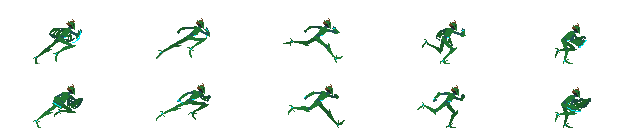
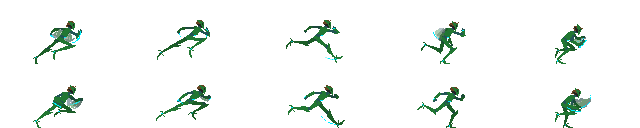
point in polygon working!

diff --git a/Breakneck/main.cpp b/Breakneck/main.cpp
@@ -227,14 +227,14 @@ struct Actor
 		activeEdges = new Edge*[16]; //this can probably be really small I don't think it matters. 
 		numActiveEdges = 0;
 
-
+		//assert( Shader::isAvailable() && "help me" );
 		/*const std::string fragmentShader = \
 			"void main()" \
 			"{" \
 			"    ..." \
 			"}";
 
-		//assert( Shader::isAvailable() && "help me" );
+		assert( Shader::isAvailable() && "help me" );
 		if (!sh.loadFromFile("player_shader.frag", sf::Shader::Fragment))
 		//if (!sh.loadFromMemory(fragmentShader, sf::Shader::Fragment))
 		{
@@ -266,8 +266,8 @@ struct Actor
 		actionLength[SLIDE] = 1;
 		tilesetSlide = GetTileset( "slide.png", 64, 64 );		
 
-		action = RUN;
-		frame = 0;
+		action = JUMP;
+		frame = 1;
 
 		gravity = 2;
 		maxFallSpeed = 100;
@@ -779,14 +779,14 @@ struct Actor
 						break;
 					}
 
-					cout << "a" << endl;
+					//cout << "a" << endl;
 					Edge *next = ground->edge1;
 					if( next->Normal().y < 0 )
 					{
 						ground = next;
 						q = 0;
 
-						cout << "aa" << endl;
+						//cout << "aa" << endl;
 						//assert( false );
 					}
 					else
@@ -1695,8 +1695,8 @@ struct Actor
 				{
 					angle = asin( dot( ground->Normal(), V2d( 1, 0 ) ) ); 
 				}
-			//	sprite->setOrigin( 0, 2 * b.rh );
-				sprite->setOrigin( sprite->getLocalBounds().width / 2, sprite->getLocalBounds().height);
+				sprite->setOrigin( b.rw, 2 * b.rh );
+				//sprite->setOrigin( sprite->getLocalBounds().width / 2, sprite->getLocalBounds().height);
 				V2d pp = ground->GetPoint( edgeQuantity );
 				sprite->setPosition( pp.x, pp.y );
 				sprite->setRotation( angle / PI * 180 );
@@ -2051,7 +2051,7 @@ void collideShapes( Actor &a, const CollisionBox &b, Actor &a1, const CollisionB
 
 int main()
 {
-	bool aaa = false;
+	bool aaa = true;
 
 	if( aaa )
 	{
@@ -2062,7 +2062,7 @@ int main()
 	else
 	{
 		window = new sf::RenderWindow(/*sf::VideoMode(1400, 900)sf::VideoMode::getDesktopMode()*/
-		sf::VideoMode( 1920 / 1, 1080 / 1), "Breakneck", sf::Style::Default, sf::ContextSettings( 0, 0, 0, 0, 0 ));
+			sf::VideoMode( 1920 / 1, 1080 / 1), "Breakneck", sf::Style::Fullscreen, sf::ContextSettings( 0, 0, 0, 0, 0 ));
 	}
 	
 	sf::Vector2i pos( 0, 0 );
@@ -2434,7 +2434,7 @@ int main()
 		bDraw.setOrigin( bDraw.getLocalBounds().width /2, bDraw.getLocalBounds().height / 2 );
 		bDraw.setPosition( player.position.x, player.position.y );
 	//	bDraw.setRotation( player.sprite->getRotation() );
-	//	window->draw( bDraw );
+		window->draw( bDraw );
 
 		window->draw( *(player.sprite) );//, &player.sh );
 		sf::RectangleShape rs;

diff --git a/Breakneck/EditSession.cpp b/Breakneck/EditSession.cpp
@@ -3,7 +3,6 @@
 #include <fstream>
 #include <assert.h>
 #include <iostream>
-#include "VectorMath.h"
 #include "poly2tri/poly2tri.h"
 
 using namespace std;
@@ -37,6 +36,7 @@ void Polygon::Finalize()
 	cdt->Triangulate();
 	vector<p2t::Triangle*> tris;
 	tris = cdt->GetTriangles();
+	
 
 	va = new VertexArray( sf::Triangles , tris.size() * 3 );
 	VertexArray & v = *va;
@@ -73,6 +73,8 @@ void Polygon::Finalize()
 			++it;
 		}
 	}
+
+	
 	
 
 	//p2t::Sweep
@@ -111,6 +113,27 @@ void Polygon::Draw( RenderTarget *rt )
 {
 //	rt->draw(lines, points.size()*2, sf::Lines );
 	rt->draw( *va );
+}
+
+bool Polygon::ContainsPoint( Vector2f test )
+{
+	int pointCount = points.size();
+
+	int i, j, c = 0;
+
+	list<Vector2i>::iterator it = points.begin();
+	list<Vector2i>::iterator jt = points.end();
+	jt--;
+	
+	for (; it != points.end(); jt = it++ ) 
+	{
+		Vector2f point((*it).x, (*it).y );
+		Vector2f pointJ((*jt).x, (*jt).y );
+		if ( ((point.y>test.y) != (pointJ.y>test.y)) &&
+			(test.x < (pointJ.x-point.x) * (test.y-point.y) / (pointJ.y-point.y) + point.x) )
+				c = !c;
+	}
+	return c;
 }
 
 void Polygon::FixWinding()
@@ -401,6 +424,19 @@ void EditSession::Run( string fileName )
 		}
 		else if( ev.type == Event::MouseMoved )
 		{
+			for( list<Polygon*>::iterator it = polygons.begin(); it != polygons.end(); ++it )
+			{
+				bool blahz = (*it)->ContainsPoint( Vector2f(worldPos.x, worldPos.y ) );
+				if( blahz )
+				{
+					cout << "Point in polygon!!!   " << (*it) << endl;
+					break;
+				}
+				else
+				{
+					//cout << "Point in polygon!!!   " << (*it) << endl;
+				}
+			}
 			if( Mouse::isButtonPressed( Mouse::Middle ) )
 			{
 				//Vector2<double> fff(prevWorldPos - w->mapPixelToCoords(Vector2i(ev.mouseMove.x, ev.mouseMove.y )));

diff --git a/Breakneck/EditSession.h b/Breakneck/EditSession.h
@@ -2,6 +2,7 @@
 #include <SFML/System.hpp>
 #include <SFML/Graphics.hpp>
 #include <list>
+#include "VectorMath.h"
 
 #ifndef __EDIT_SESSION__
 #define __EDIT_SESSION__
@@ -11,11 +12,13 @@ struct Polygon
 {
 	Polygon();
 	std::list<sf::Vector2i> points;
+	sf::Vector2i *pointArray;
 	std::string material;
 	void Finalize();
 	void Draw( sf::RenderTarget * rt);
 	void FixWinding();
 	bool IsClockwise();
+	bool ContainsPoint( sf::Vector2f p );
 	sf::Vertex *lines;
 	sf::VertexArray *va;
 };

diff --git a/Breakneck/VectorMath.h b/Breakneck/VectorMath.h
@@ -19,6 +19,8 @@ struct LineIntersection
 	bool parallel;
 };
 
+
+
 LineIntersection lineIntersection( sf::Vector2<double> a, sf::Vector2<double> b, sf::Vector2<double> c, sf::Vector2<double> d );
 
 
